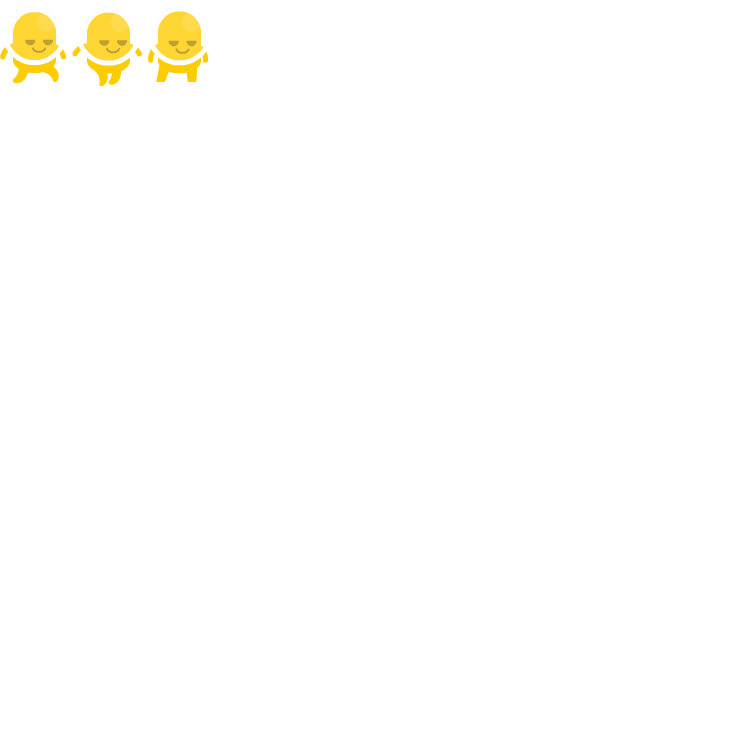
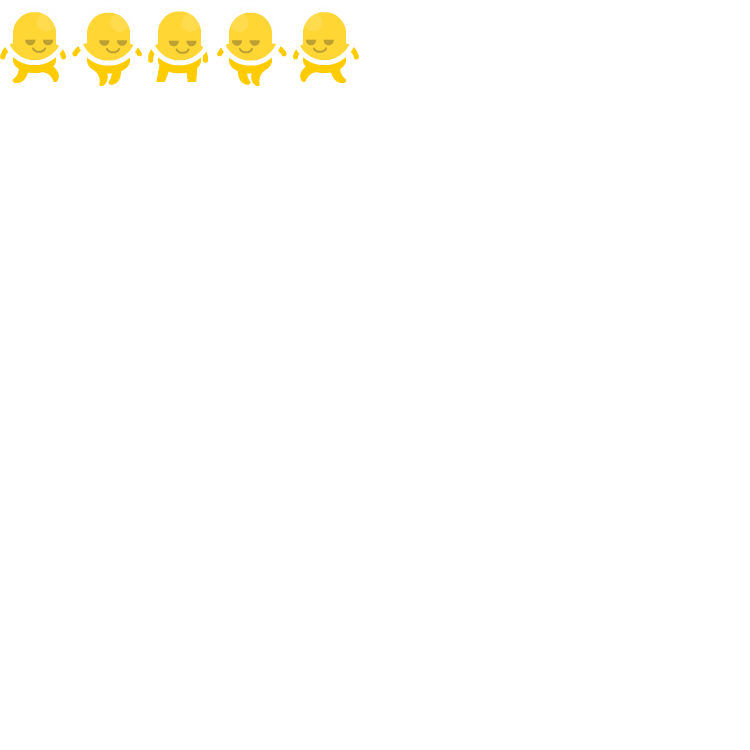
Alien can go right and left

Changed region(s): [[0.276, 0.0, 0.4907, 0.1227]]

diff --git a/PlatformGame/jPlayer.cpp b/PlatformGame/jPlayer.cpp
@@ -31,8 +31,8 @@ bool jPlayer::Awake(pugi::xml_node& config)
 	pugi::xml_node sprite = config.child("sprites");
 	data->create(sprite.attribute("name").as_string());
 	sprites_name.add(data);
-	
-
+	initialX = config.child("positionX").attribute("x").as_float();
+	initialY = config.child("positionY").attribute("y").as_float();
 
 	bool ret = true;
 
@@ -43,19 +43,29 @@ bool jPlayer::Awake(pugi::xml_node& config)
 bool jPlayer::Start()
 {
 	bool ret = true;
-	texture = App->tex->Load(sprites_name.start->data->GetString());
-	idle.PushBack({ 147,0,65,82 });
-	current_animation = &idle;
-	position.x = 30;
-	position.y = 60;
+
+	position.x = initialX;
+	position.y = initialY;
+
 	
+	idle.PushBack({ 147,0,65,82 });
+	
+	GoRight.PushBack({ 0,0,67,83 });
+	GoRight.PushBack({ 72,0,70,86 });
+	GoRight.speed = 0.03f;
+
+	GoLeft.PushBack({ 292,0,67,83 });
+	GoLeft.PushBack({ 217,0,70,86 });
+	GoLeft.speed = 0.03f;
+
+	texture = App->tex->Load(sprites_name.start->data->GetString());
+
+	
+
 	if (texture == nullptr) {
 		LOG("Error loading player texture!");
 		ret = false;
 	}
-
-	
-
 	return ret;
 }
 
@@ -68,6 +78,19 @@ bool jPlayer::PreUpdate()
 
 bool jPlayer::Update(float dt)
 {
+	if (App->input->GetKey(SDL_SCANCODE_D) == KEY_REPEAT) {
+		position.x += 2.0f;
+		current_animation = &GoRight;
+	}
+	else if (App->input->GetKey(SDL_SCANCODE_A) == KEY_REPEAT) {
+		position.x -= 2.0f;
+		current_animation = &GoLeft;
+	}
+	else {
+		current_animation = &idle;
+	}
+
+	
 	App->render->Blit(texture, position.x, position.y, &(current_animation->GetCurrentFrame()));
 	return true;
 }
@@ -78,14 +101,6 @@ bool jPlayer::CleanUp()
 	return true;
 }
 
-bool jPlayer::LoadPushbacks()
-{
-
-
-	idle.PushBack({ 147,0,65,82 });
-	current_animation = &idle;
-	return true;
-}
 
 
 

diff --git a/PlatformGame/jPlayer.h b/PlatformGame/jPlayer.h
@@ -39,14 +39,15 @@ public:
 	
 	Animation* current_animation = nullptr;
 	Animation idle;
+	Animation GoLeft;
+	Animation GoRight;
 	fPoint position;
-	p2SString		folder;
-	p2SString		texture_path;
-	const char*		tryy=nullptr;
-	SDL_Texture* texture;
+	float initialX = 0.0f;
+	float initialY = 0.0f;
+	SDL_Texture* texture = nullptr;
 	p2List<p2SString*> sprites_name;
 	p2SString * data = new p2SString;
-	bool LoadPushbacks();
+
 
 };
 
